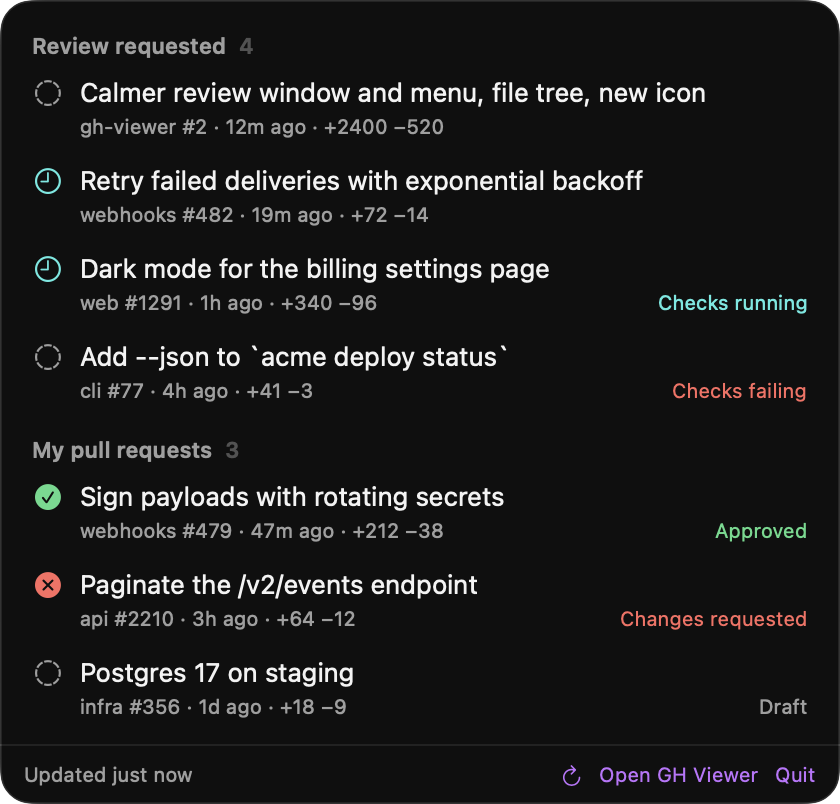
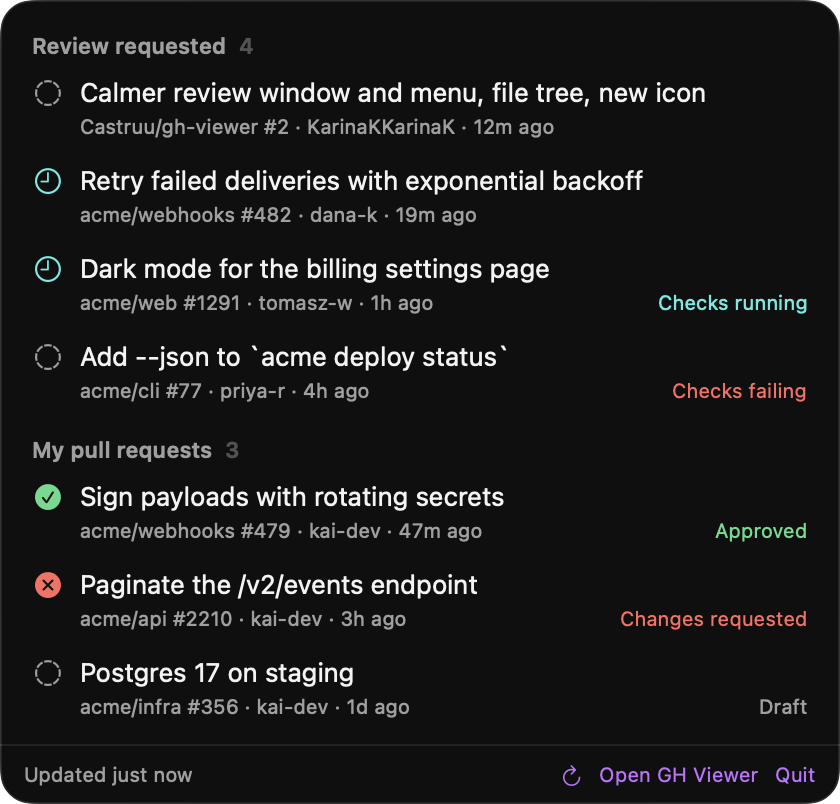
feat(app): file tree in its own column, simpler PR rows
- The file tree is a column beside the diff again, with a button in the
  summary bar to hide it, instead of a second tab in the sidebar.
- PR rows are back to repo, number, author and age. The size is gone from
  the rows and from the dashboard query.
- The sidebar's filter moved to its bottom row.

diff --git a/app/Sources/GHViewer/DiffPane.swift b/app/Sources/GHViewer/DiffPane.swift
@@ -11,6 +11,9 @@ struct DiffPane: View {
     @State private var expanded: [String: Bool] = [:]
     @State private var editor: DiffEditorTarget?
     @State private var isSubmitPresented = false
+    /// HSplitView can't set a starting width, so the split is drawn here; it's kept across PRs.
+    @AppStorage("diffFileListWidth") private var fileListWidth = 230.0
+    @AppStorage(DiffSummaryBar.showsFilesKey) private var showsFiles = true
     @State private var isConfirmingDiscard = false
     @Environment(\.palette) private var palette
 
@@ -63,6 +66,11 @@ struct DiffPane: View {
         VStack(spacing: 0) {
             banners
             HStack(spacing: 0) {
+                if showsFiles {
+                    DiffFileList(review: review)
+                        .frame(width: fileListWidth)
+                    DiffSplitDivider(width: $fileListWidth, range: 180...480)
+                }
                 VStack(spacing: 0) {
                     DiffSummaryBar(review: review, files: shownFiles, isSubmitPresented: $isSubmitPresented)
                     Divider()
@@ -172,15 +180,50 @@ struct DiffPane: View {
     }
 }
 
+/// A drag handle that resizes the view to its left.
+private struct DiffSplitDivider: View {
+    @Binding var width: Double
+    let range: ClosedRange<Double>
+    @State private var startWidth: Double?
+
+    var body: some View {
+        Divider()
+            .overlay {
+                Color.clear
+                    .frame(width: 9)
+                    .contentShape(Rectangle())
+                    .onHover { inside in
+                        if inside { NSCursor.resizeLeftRight.push() } else { NSCursor.pop() }
+                    }
+                    .gesture(DragGesture(minimumDistance: 1, coordinateSpace: .global)
+                        .onChanged { drag in
+                            let start = startWidth ?? width
+                            startWidth = start
+                            width = min(max(start + drag.translation.width, range.lowerBound), range.upperBound)
+                        }
+                        .onEnded { _ in startWidth = nil })
+            }
+            .help("Drag to resize the file list")
+    }
+}
+
 /// Above the diff: totals, Reload, and Submit Review with the draft count.
 private struct DiffSummaryBar: View {
+    /// `UserDefaults` key: whether the file tree shows beside the diff.
+    static let showsFilesKey = "showsFileTree"
+
     let review: PRReview
     let files: [DiffFileModel]
     @Binding var isSubmitPresented: Bool
+    @AppStorage(DiffSummaryBar.showsFilesKey) private var showsFiles = true
 
     var body: some View {
         let viewed = review.viewedPaths
         HStack(spacing: 12) {
+            Button("Files", systemImage: "sidebar.left") { showsFiles.toggle() }
+                .labelStyle(.iconOnly)
+                .buttonStyle(.borderless)
+                .help(showsFiles ? "Hide the file tree" : "Show the file tree")
             Text(countLabel(files.count, "file")).fontWeight(.medium)
             DiffLineCounts(additions: files.reduce(0) { $0 + $1.additions },
                            deletions: files.reduce(0) { $0 + $1.deletions })

diff --git a/app/Sources/GHViewer/ReviewSidebar.swift b/app/Sources/GHViewer/ReviewSidebar.swift
@@ -1,38 +1,18 @@
 import SwiftUI
 
 /// The review window's sidebar: every open PR you're involved in, grouped by what it needs from you.
+/// The open PR's files have their own column, beside the diff.
 struct ReviewSidebar: View {
     @Bindable var model: AppModel
-    let reviews: ReviewStore
     /// The PRs you've already reviewed are the least urgent, so they start folded.
     @State private var collapsed: Set<String> = [SidebarSection.reviewed]
-    @State private var showsFiles = false
     // The filter's checkboxes. What needs your review always shows: that's what the app is for.
     @AppStorage("sidebarShowsYours") private var showsYours = true
     @AppStorage("sidebarShowsReviewed") private var showsReviewed = true
     @AppStorage("sidebarHidesViewedFiles") private var hidesViewedFiles = false
 
     var body: some View {
-        VStack(spacing: 0) {
-            // One list at a time: your pull requests, or the files of the one that's open.
-            HStack(spacing: 6) {
-                Picker("Show", selection: $showsFiles) {
-                    Text("Pull Requests").tag(false)
-                    Text("Files").tag(true)
-                }
-                .pickerStyle(.segmented)
-                .labelsHidden()
-                .disabled(model.selectedPullRequest == nil)
-                filterMenu
-            }
-            .padding(.horizontal, 12)
-            .padding(.bottom, 8)
-            if showsFiles, let pullRequest = model.selectedPullRequest {
-                DiffFileList(review: reviews.review(for: pullRequest), hidesViewed: hidesViewedFiles)
-            } else {
-                pullRequests
-            }
-        }
+        pullRequests
     }
 
     /// Less to read: untick what you don't need to see. The icon fills in while something is hidden.
@@ -86,11 +66,14 @@ struct ReviewSidebar: View {
                                                description: Text("Nothing waiting on you, and nothing of yours open."))
                     }
                 }
-                RefreshStatus(model: model)
-                    .font(.caption)
-                    .frame(maxWidth: .infinity, alignment: .leading)
-                    .padding(.horizontal, 16)
-                    .padding(.vertical, 8)
+                HStack {
+                    RefreshStatus(model: model)
+                        .font(.caption)
+                    Spacer()
+                    filterMenu
+                }
+                .padding(.horizontal, 16)
+                .padding(.vertical, 8)
             }
             // A PR picked in the menu bar may sit in a collapsed section.
             .onChange(of: model.selectedPullRequestURL) { _, url in

diff --git a/app/Sources/GHViewer/DiffFileList.swift b/app/Sources/GHViewer/DiffFileList.swift
@@ -1,10 +1,10 @@
 import SwiftUI
 
-/// The open PR's changed files as a folder tree, in the sidebar. Clicking a file scrolls the diff to it.
+/// The open PR's changed files as a folder tree, beside the diff. Clicking a file scrolls the diff to it.
 struct DiffFileList: View {
     let review: PRReview
     /// The sidebar's filter: leave out the files already checked as viewed.
-    var hidesViewed = false
+    @AppStorage("sidebarHidesViewedFiles") private var hidesViewed = false
     @State private var selection: String?
     /// Folder paths, each ending in "/".
     @State private var collapsed: Set<String> = []
@@ -39,14 +39,18 @@ struct DiffFileList: View {
                     .buttonStyle(.plain)
                     .padding(.leading, CGFloat(depth) * Self.indent)
                     .selectionDisabled()
+                    .listRowSeparator(.hidden)
                     .help(collapsed.contains(path) ? "Show the files in \(path)" : "Hide the files in \(path)")
                 case .file(let path, let depth):
                     if let file = byPath[path] {
                         DiffFileRow(file: file, draftCount: draftCounts[path] ?? 0, isViewed: viewed.contains(path))
                             .padding(.leading, CGFloat(depth) * Self.indent)
+                            .listRowSeparator(.hidden)
                     }
                 }
             }
+            .listStyle(.plain)
+            .environment(\.defaultMinListRowHeight, 24)
             .overlay {
                 if rows.isEmpty {
                     ContentUnavailableView("All Files Viewed", systemImage: "checkmark.circle",

diff --git a/app/Sources/GHViewer/SharedViews.swift b/app/Sources/GHViewer/SharedViews.swift
@@ -81,8 +81,7 @@ struct PRStatusText: View {
     }
 }
 
-/// A PR in a list: what it does, then where it is, how old, and its state.
-/// Who wrote it and the full title are in the tooltip and in the PR's header.
+/// A PR in a list: its review icon, what it does, then its repo, author and age, and its state in words.
 struct PRRowLabel: View {
     let pullRequest: PullRequest
 
@@ -102,14 +101,16 @@ struct PRRowLabel: View {
                 .font(.caption)
             }
         }
-        .help("\(pullRequest.repo) #\(pullRequest.number) by \(pullRequest.author ?? "ghost"): \(pullRequest.title)")
+        .help(pullRequest.title)
     }
 
-    /// The repo without its owner: the short name is what tells PRs apart.
     private var subtitle: String {
-        "\(pullRequest.repo.split(separator: "/").last ?? "") #\(pullRequest.number) · \(relativeTime(pullRequest.updatedAt, now: Date()))"
-            // The size tells a two-minute review from an afternoon.
-            + " · +\(pullRequest.additions) −\(pullRequest.deletions)"
+        var parts = ["\(pullRequest.repo) #\(pullRequest.number)"]
+        if let author = pullRequest.author {
+            parts.append(author)
+        }
+        parts.append(relativeTime(pullRequest.updatedAt, now: Date()))
+        return parts.joined(separator: " · ")
     }
 }
 

diff --git a/app/Sources/GHViewer/ReviewWindow.swift b/app/Sources/GHViewer/ReviewWindow.swift
@@ -18,10 +18,14 @@ struct ReviewWindow: View {
 
     var body: some View {
         NavigationSplitView {
-            ReviewSidebar(model: model, reviews: reviews)
+            ReviewSidebar(model: model)
                 .navigationSplitViewColumnWidth(min: 220, ideal: 270, max: 420)
         } detail: {
             PRDetail(model: model, reviews: reviews)
+                // Measured on macOS 26: the column is kept at its minimum plus the sidebar's width, so the
+                // content's own minimum (file tree and diff, about 590) leaves no room for the chat in the
+                // default window and the columns run past its edges. Declaring less makes them fit.
+                .frame(minWidth: 320)
                 // On the detail column, not the split view: there it becomes a third column.
                 // Outside, the split view's content overflowed the window at its default size.
                 .inspector(isPresented: $isChatPresented) {

diff --git a/app/Tests/GHViewerTests/HighlightTests.swift b/app/Tests/GHViewerTests/HighlightTests.swift
@@ -43,7 +43,7 @@ struct HighlightTests {
     @Test func newsIsARequestAReRequestOrChecksThatStartedFailing() {
         func pr(_ number: UInt64, checks: CheckState? = .success) -> PullRequest {
             PullRequest(number: number, title: "T\(number)", url: "u\(number)", repo: "acme/api", author: "dana",
-                        isDraft: false, reviewDecision: nil, checkState: checks, updatedAt: Date(), additions: 0, deletions: 0)
+                        isDraft: false, reviewDecision: nil, checkState: checks, updatedAt: Date())
         }
         func dashboard(authored: [PullRequest] = [], waiting: [PullRequest] = [], reviewed: [PullRequest] = []) -> Dashboard {
             Dashboard(viewerLogin: "me", authored: authored, reviewRequested: waiting, reviewedByMe: reviewed, warnings: [])

diff --git a/core/src/lib.rs b/core/src/lib.rs
@@ -43,8 +43,6 @@ fragment pr on PullRequest {
   isDraft
   updatedAt
   reviewDecision
-  additions
-  deletions
   repository { nameWithOwner }
   author { login }
   commits(last: 1) { nodes { commit { statusCheckRollup { state } } } }
@@ -141,9 +139,6 @@ pub struct PullRequest {
     /// `None` when the head commit has no checks.
     pub check_state: Option<CheckState>,
     pub updated_at: SystemTime,
-    /// Lines added and removed, to tell a small PR from a big one.
-    pub additions: u32,
-    pub deletions: u32,
 }
 
 #[derive(Debug, Clone, PartialEq, uniffi::Record)]
@@ -332,10 +327,6 @@ struct PrNode {
     repository: Repository,
     author: Option<Author>,
     commits: Commits,
-    #[serde(default)]
-    additions: u32,
-    #[serde(default)]
-    deletions: u32,
 }
 
 #[derive(Deserialize)]
@@ -448,8 +439,6 @@ fn convert_pr(node: PrNode) -> Result<PullRequest, CoreError> {
         review_decision,
         check_state,
         updated_at,
-        additions: node.additions,
-        deletions: node.deletions,
     })
 }
 

diff --git a/README.md b/README.md
@@ -68,7 +68,7 @@ Click one to review it, right-click to open it in your browser.
 
 Each row has the review decision as an icon on the left (approved, changes
 requested, review required, or none yet), then what the PR does, its repo,
-number, age and size. A status in words shows when there is news: Checks failing,
+number, author and age. A status in words shows when there is news: Checks failing,
 Changes requested, Draft, Approved or Checks running.
 
 It refreshes every 2 minutes (every 10 in Low Power Mode), and when you open the
@@ -84,13 +84,12 @@ to pick from for the Dock.
 
 ### A diff that keeps up with you
 
-<img src="docs/assets/screenshots/review-window.png" alt="The review window: PRs grouped by what they need, the diff, and the agent chat">
+<img src="docs/assets/screenshots/review-window.png" alt="The review window: PRs grouped by what they need, the file tree, the diff, and the agent chat">
 
 - The sidebar lists your PRs by what they need: your review, your own, and the
-  ones you've already reviewed. Its second tab shows the open PR's files as a
-  folder tree.
-- The filter button next to the tabs hides the sections, or the viewed files,
-  you don't need to see.
+  ones you've already reviewed. Its filter button hides the sections, or the
+  viewed files, you don't need to see.
+- The open PR's files are a folder tree beside the diff. A button hides it.
 - The window opens on the PR you had open last, or the first one waiting on
   you, and moves to the next one after you submit a review.
 - Hover a diff line for the "+", then click the line to comment on it or ask

diff --git a/docs/design.md b/docs/design.md
@@ -12,7 +12,7 @@ edit and submit those.
 
 | # | Decision |
 |---|---|
-| 1 | Main window with three panes (the sidebar switches between the PR list and the open PR's file tree): a sidebar of PRs grouped by what they need from you (your review, your own, already reviewed), the diff, and agent chat. The menu bar icon stays as the badge and entry point. The app is menu-bar-only until the window opens, gets a Dock icon while it's open, and drops it again on close. |
+| 1 | Main window with three panes: a sidebar of PRs grouped by what they need from you (your review, your own, already reviewed), the diff, and agent chat. The menu bar icon stays as the badge and entry point. The app is menu-bar-only until the window opens, gets a Dock icon while it's open, and drops it again on close. |
 | 1a | The sidebar adds open PRs you've already reviewed (`reviewed-by:@me`), because GitHub removes your review request once you review. They get their own section, after the PRs that need your review and your own. |
 | 1b | Clicking a PR in the menu bar opens it in the review window. "Open in browser" moves to a context menu. |
 | 2 | The diff is computed locally from an app-managed checkout, not from GitHub's files API. |
